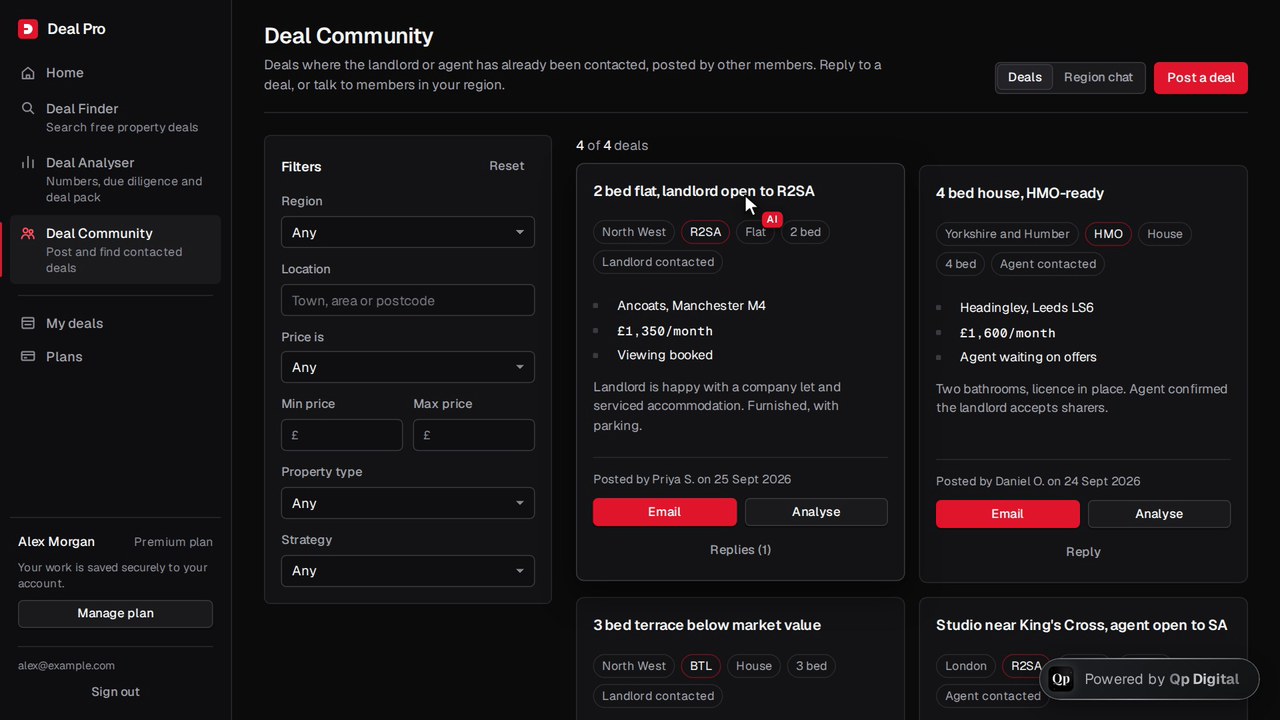
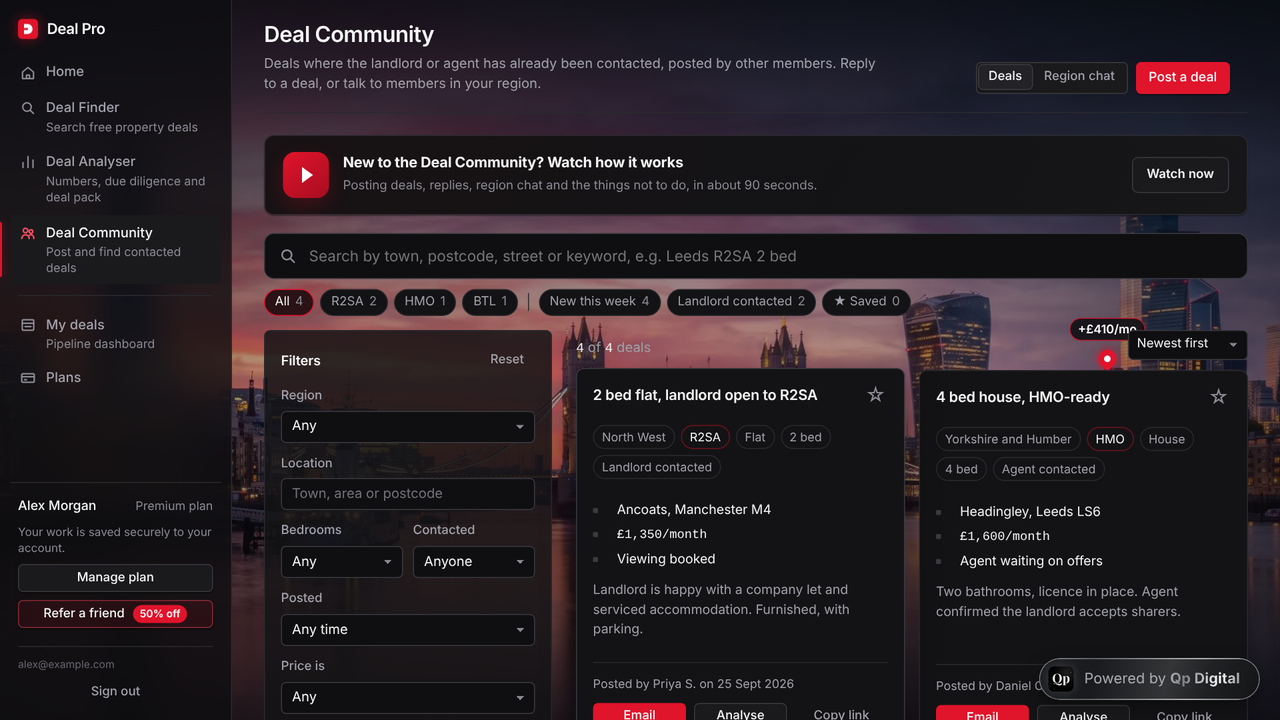
Community tutorial thumbnail without the AI cursor tag
Claude-Session: https://claude.ai/code/session_016Bo4UCof16Xsu7Wsv3ap9o

diff --git a/index.html b/index.html
@@ -1456,7 +1456,7 @@ html.fx .rv.in{opacity:1;transform:none;transition:opacity .7s var(--ease) var(-
     </header>
     <details class="ctut" id="cTut">
       <summary class="tutorial-callout"><span class="tutorial-callout-copy"><span class="tutorial-callout-icon" aria-hidden="true"></span><span class="tutorial-callout-text"><strong>New to the Deal Community? Watch how it works</strong><span>Posting deals, replies, region chat and the things not to do, in about 90 seconds.</span></span></span><span class="tutorial-callout-action"><span class="ctut-open">Watch now</span><span class="ctut-close">Hide video</span></span></summary>
-      <div class="tutorial-media ctut-media"><video controls preload="none" poster="/assets/deal-community-tutorial-poster.webp?v=2"><source src="/assets/deal-community-tutorial.mp4?v=1" type="video/mp4">Your browser does not support this tutorial video.</video></div>
+      <div class="tutorial-media ctut-media"><video controls preload="none" poster="/assets/deal-community-tutorial-poster.webp?v=3"><source src="/assets/deal-community-tutorial.mp4?v=1" type="video/mp4">Your browser does not support this tutorial video.</video></div>
     </details>
     <form class="panel cform" id="cForm" hidden novalidate>
       <div class="fs"><div class="fs-h"><h2>Post a deal</h2></div>
